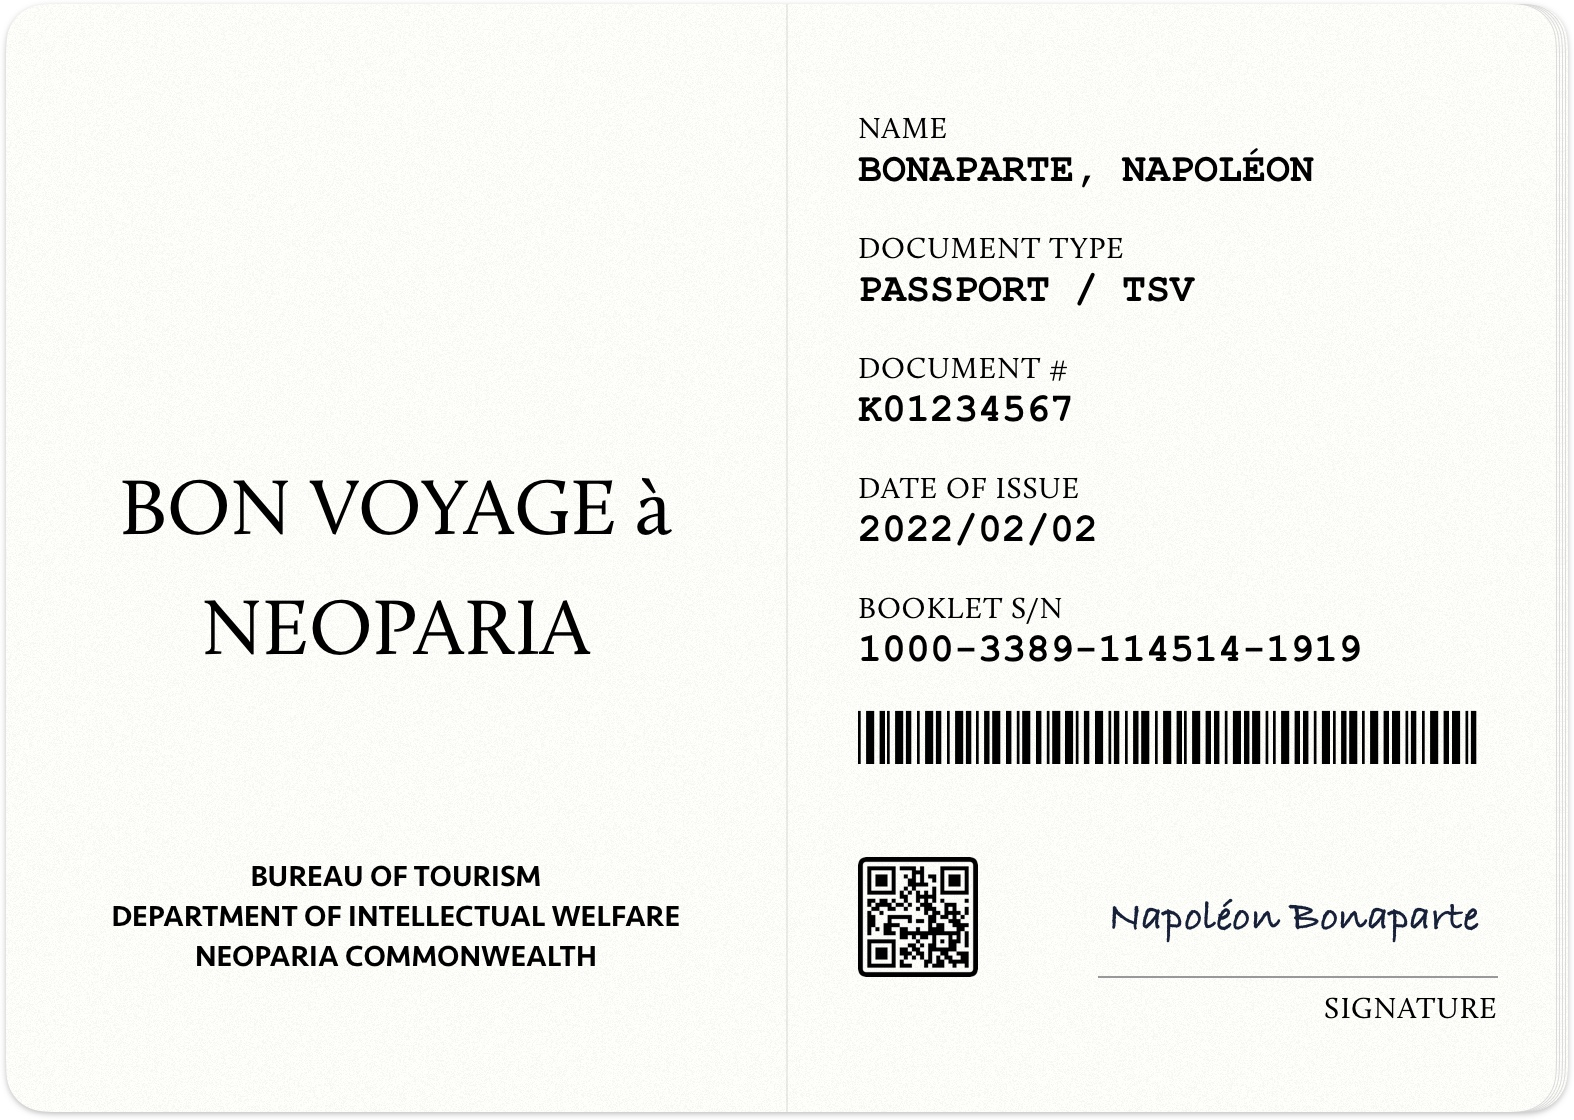
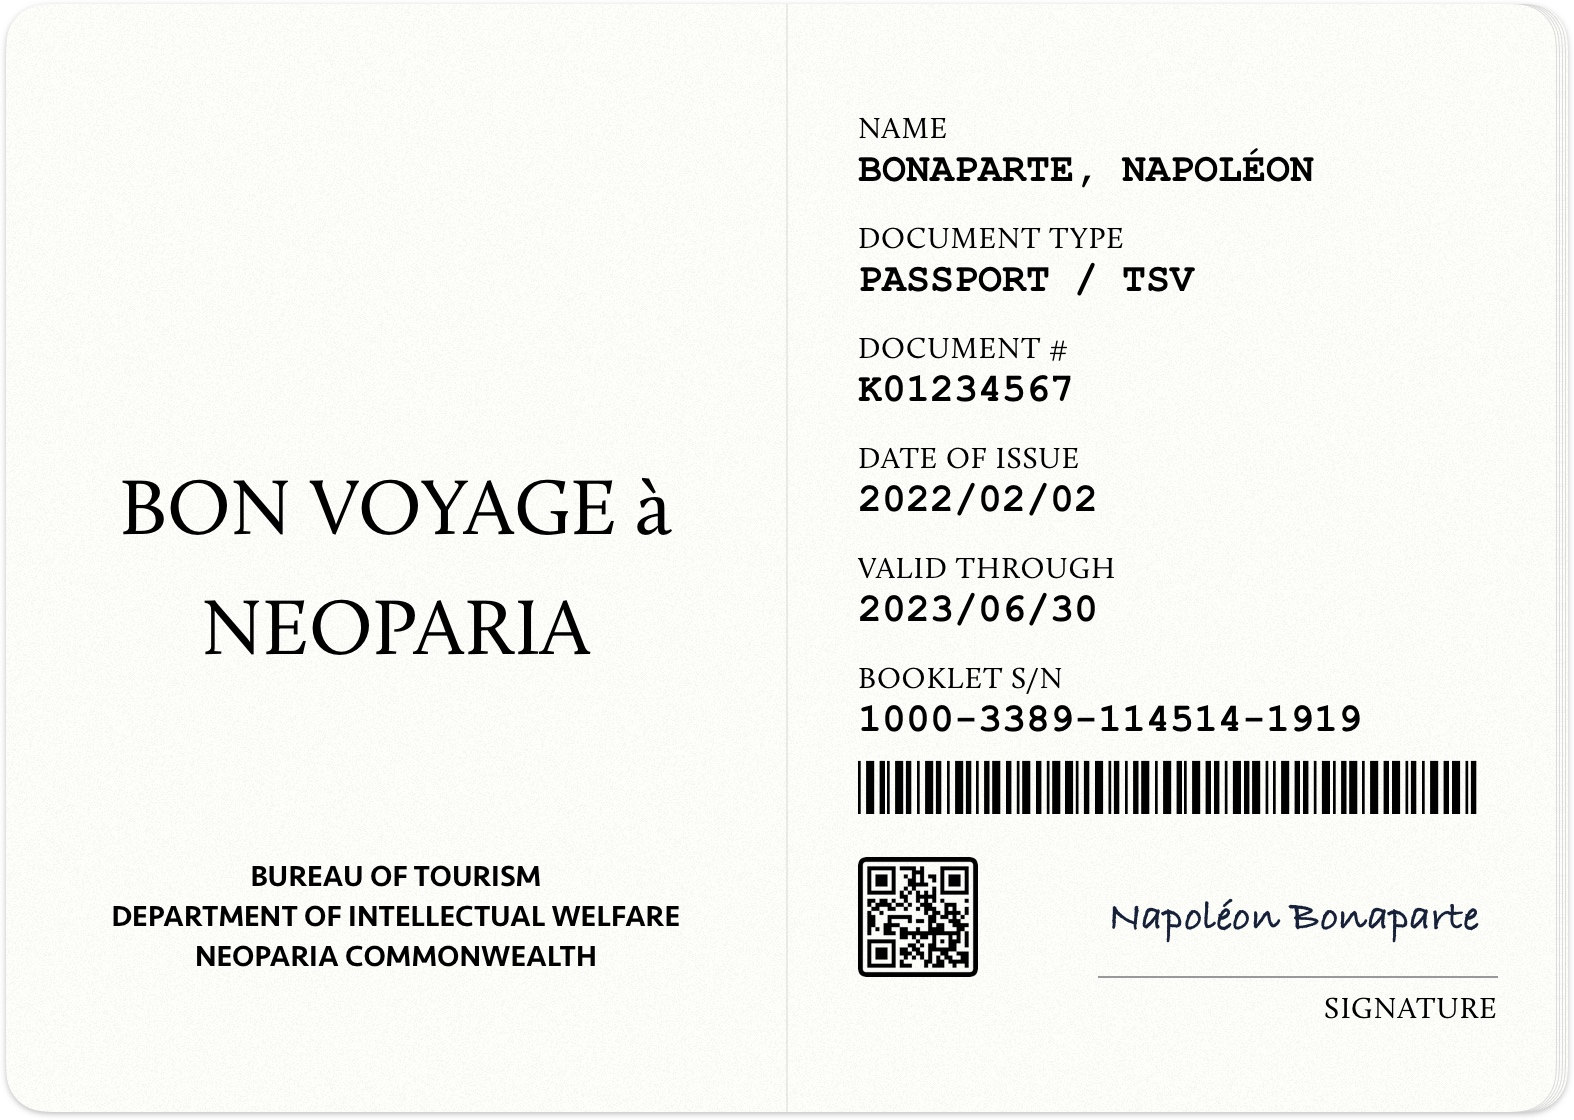
album: created 26 "Bureau of Tourism"

Changed region(s): [[0.5292, 0.1875, 0.9651, 0.75]]

diff --git a/album/db/26.html b/album/db/26.html
@@ -1,0 +1,19 @@
+<link rel="stylesheet" href="/album/css/style-white.css">
+
+<h2>Neoparia Commonwealth: Bureau of Tourism</h2>
+
+<p>Bureau of Tourism is administrated by Department of Intellectual Welfare.</p>
+
+<h3>Ultimate Tourism Collection</h3>
+
+<p>The sale of this booklet is managed by Bureau of Tourism. It may be purchased at any civil port of entry after entry immigration check. This is un important source of funding for governmental services for tourists.</p>
+
+<figure><img class="custom id3-s1" src="/album/img/0000201903230001.jpg"><figcaption>Ultimate Tourism Collection cover</figcaption></figure>
+
+<p>The booklet is the ultimate omnipotent ticket collection for all tourism points which require ticketing. It is treated as valid tickets till the last day of the same semiyear in the next year beyond the date of issue.</p>
+
+<figure><img class="custom id3-s2" src="/album/img/0000201903230002.jpg"><figcaption>Front cover inner side &amp; Voyager info page</figcaption></figure>
+
+<p>The booklet is the ultimate omnipotent ticket collection for all tourism points which require ticketing.</p>
+
+<figure><img class="custom id3-s2" src="/album/img/0000201903230003.jpg"><figcaption>Tourism site detail pages with tourist stamps</figcaption></figure>
